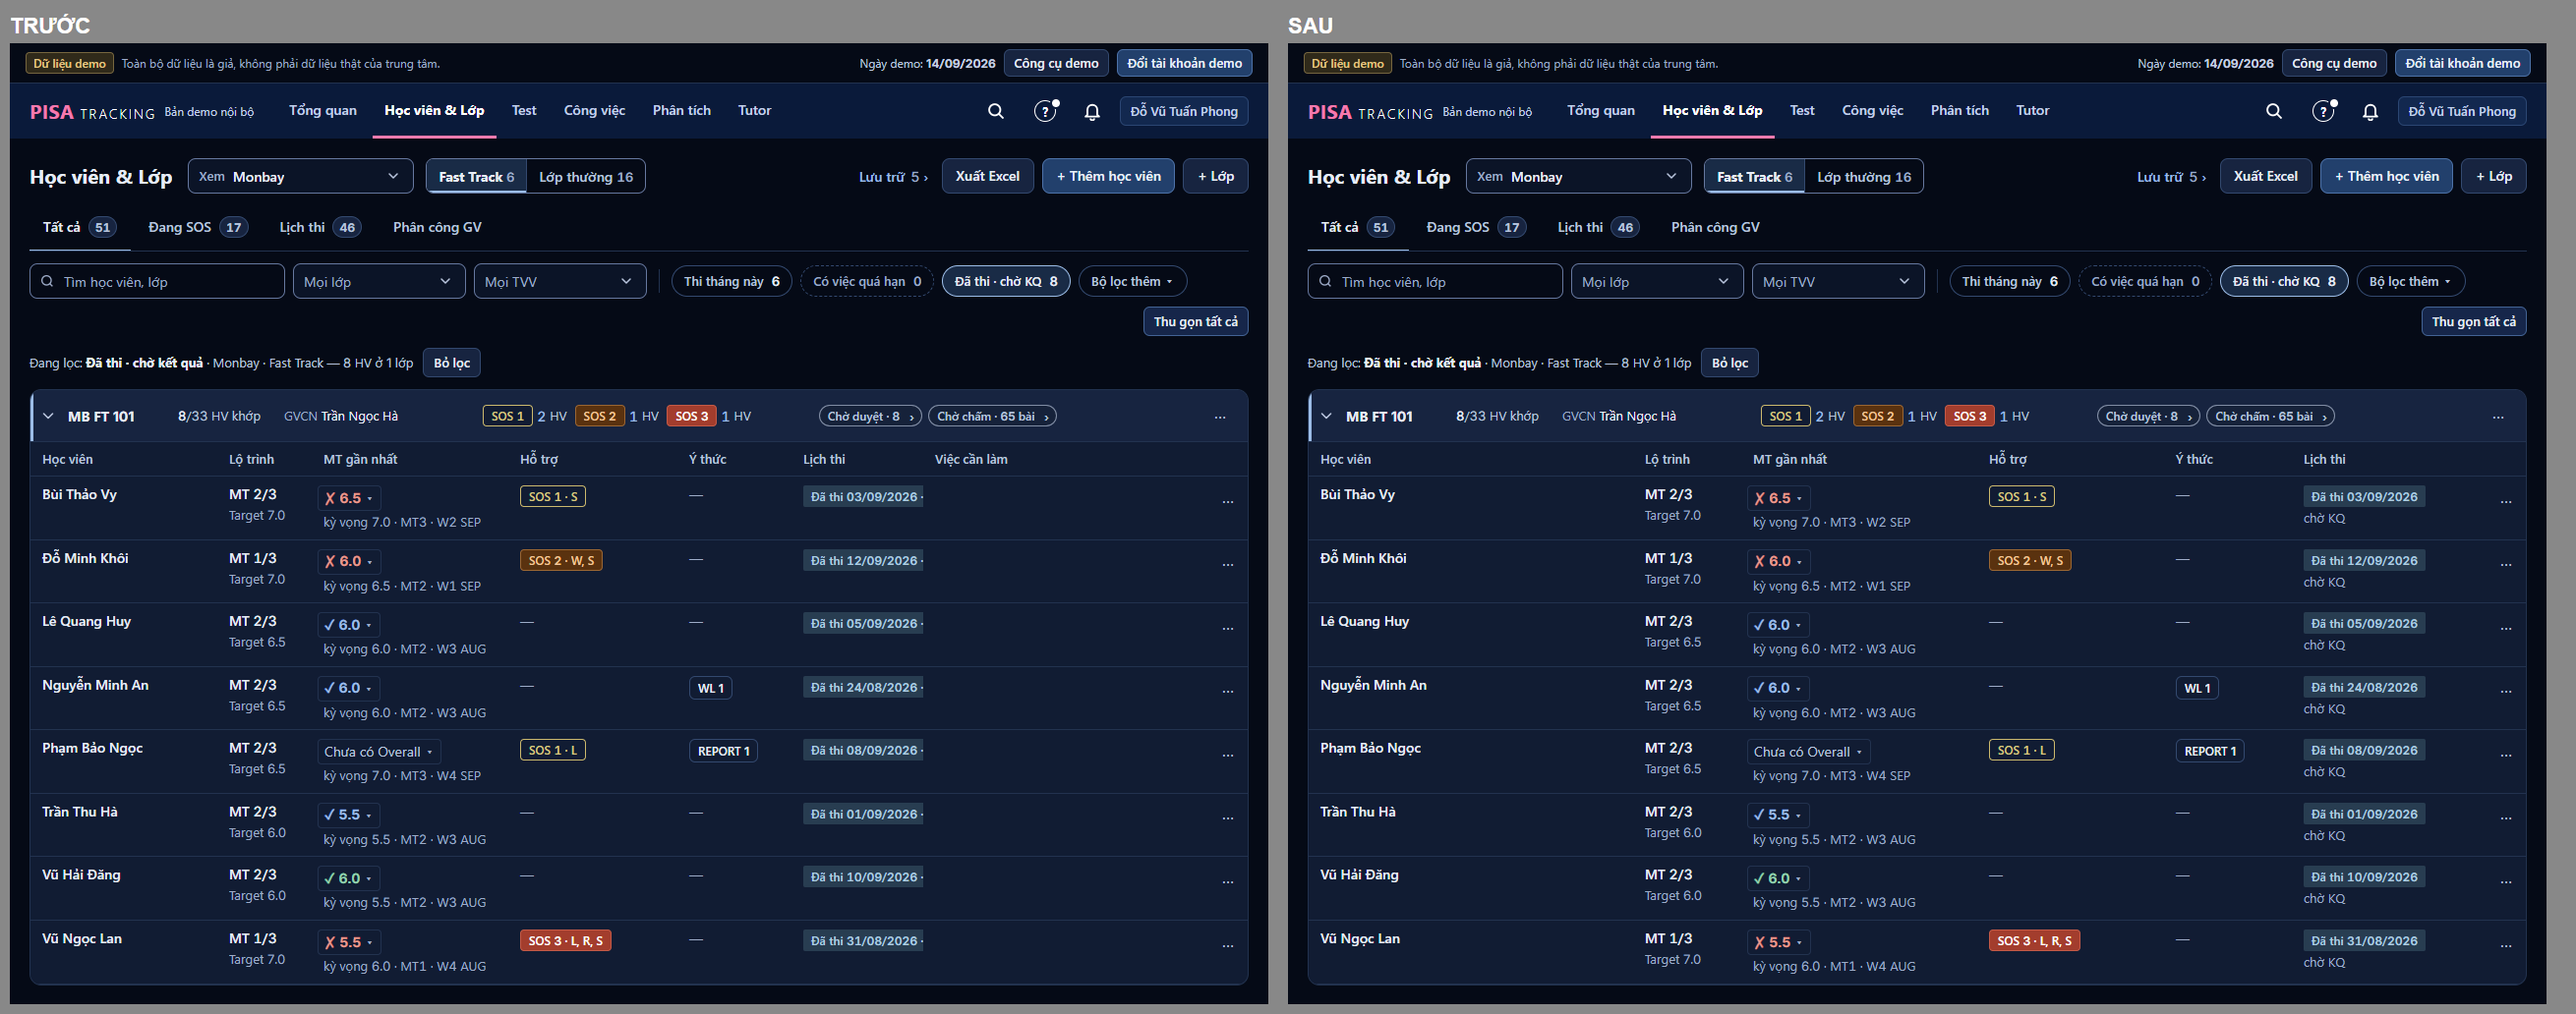
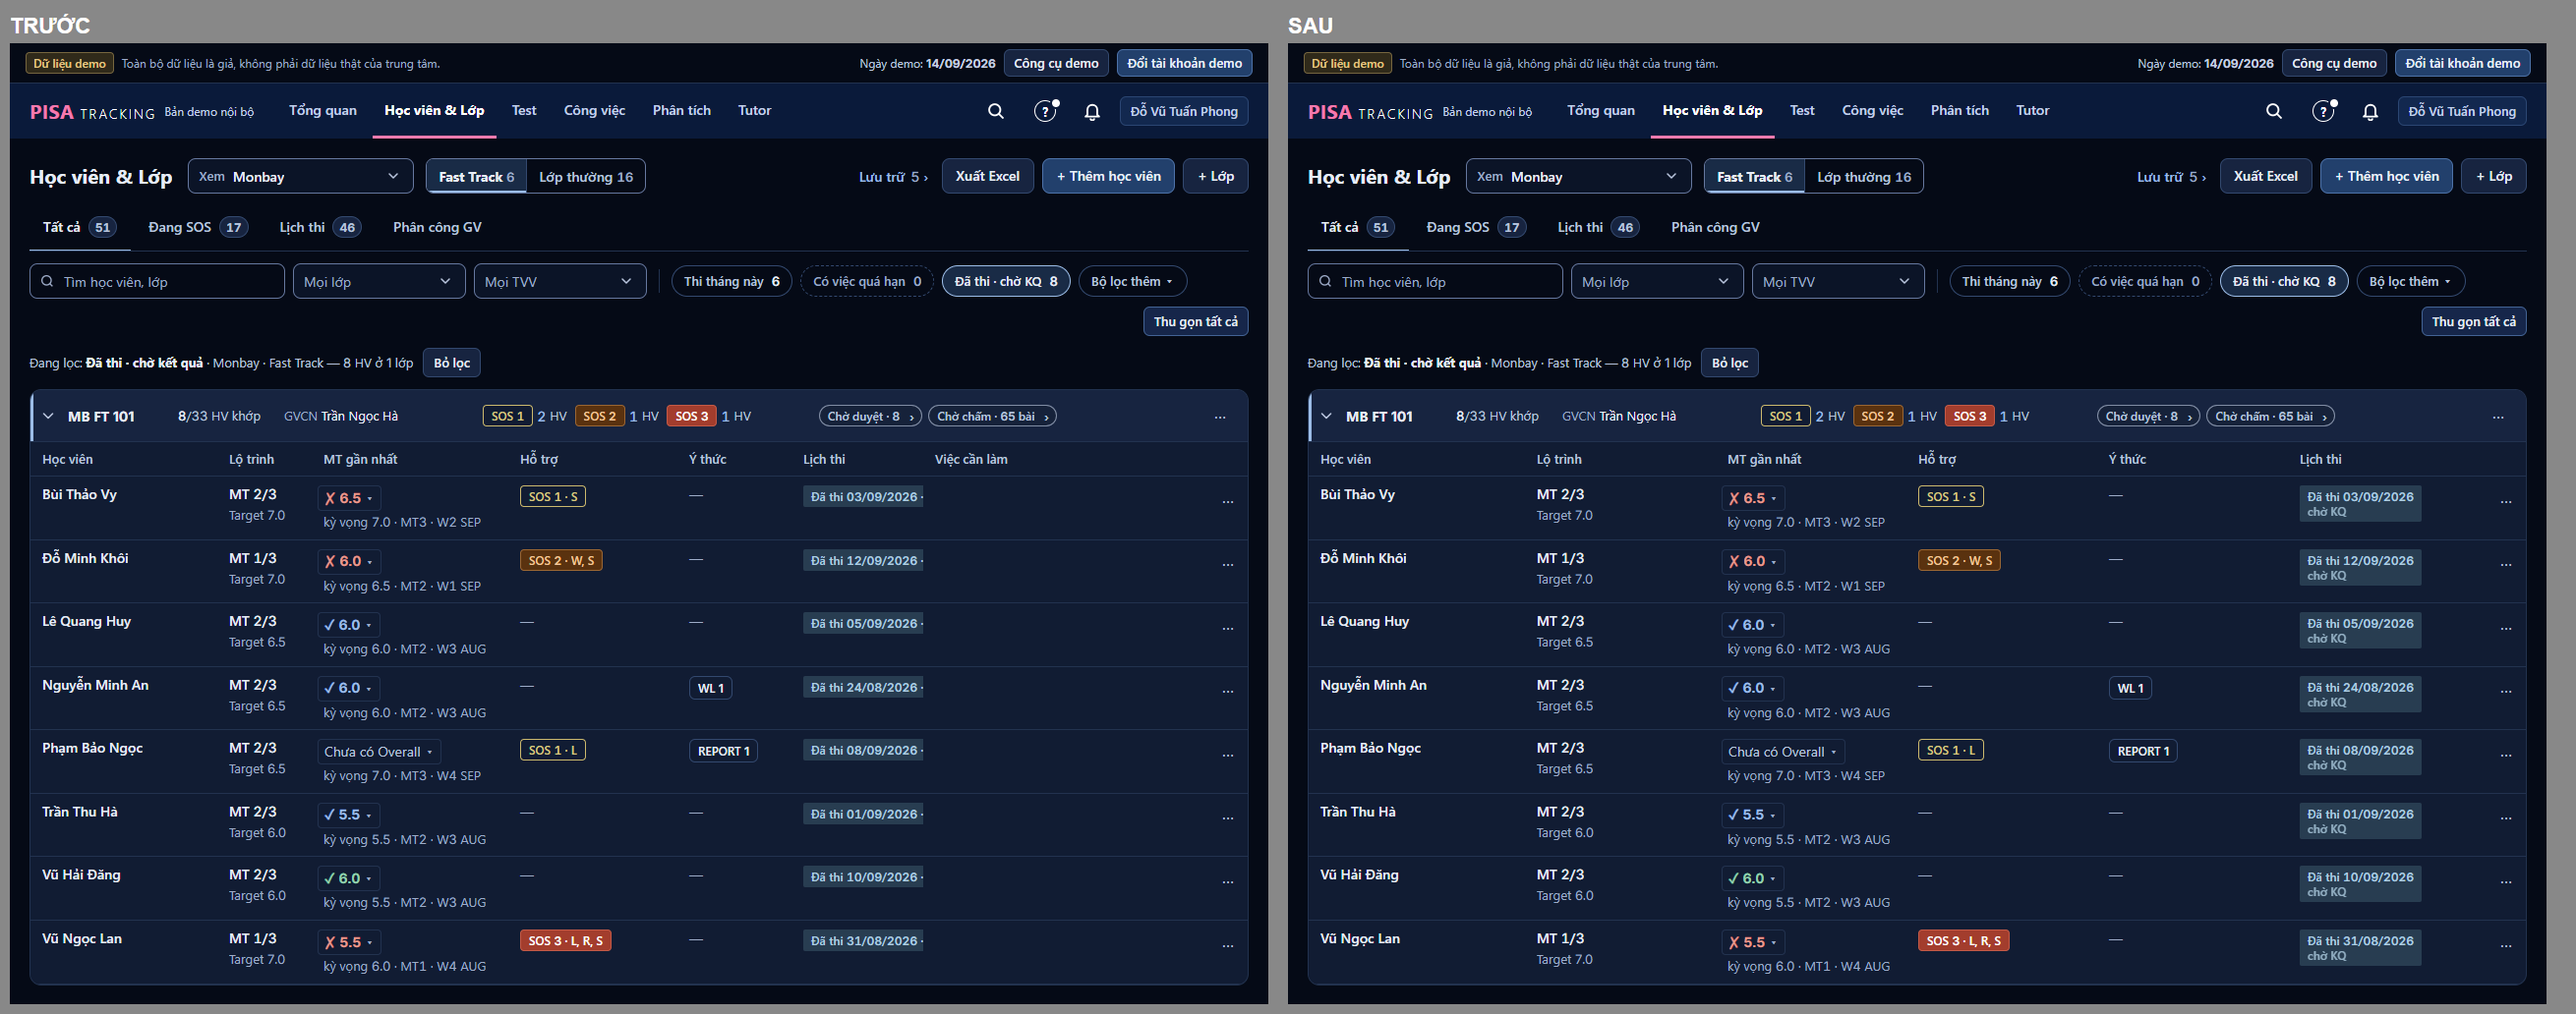
Cân cột HV "Đã thi": "chờ KQ" vào trong chip hai dòng, năm cột chia đều khi bỏ cột Việc

diff --git a/web/src/modules/students/DanhSachHvLop.tsx b/web/src/modules/students/DanhSachHvLop.tsx
@@ -292,7 +292,7 @@ const cotHv = (vai?: VaiBang): CotBang[] => (!vai || vai.coViec ? COT_HV
 function OLich({ h, ev, onMoEm, theDt = false }: { h: HvGon; ev?: EmVai; onMoEm?: (id: number) => void; /** Thẻ điện thoại: chip một dòng "Đã thi dd/mm/yyyy · chờ KQ" (bảng: "chờ KQ" xuống dòng phụ). */ theDt?: boolean }) {
   return (
     <span className="block">
-      {h.lich || !ev ? <><ChipLichThi l={h.lich} them={theDt && h.lich?.trangThai === 'da-thi' ? t('chờ KQ') : undefined} />{!theDt && h.lich?.trangThai === 'da-thi' && <span className="dong2">{t('chờ KQ')}</span>}</> : <span className="text-xs text-slate-300"><ExamPlanText plan={ev.duKienThi} /></span>}
+      {h.lich || !ev ? <><ChipLichThi l={h.lich} them={theDt && h.lich?.trangThai === 'da-thi' ? t('chờ KQ') : undefined} haiDong={!theDt && h.lich?.trangThai === 'da-thi' ? t('chờ KQ') : undefined} /></> : <span className="text-xs text-slate-300"><ExamPlanText plan={ev.duKienThi} /></span>}
       {ev?.sauThi && onMoEm && (
         <button type="button" className="mt-1 block cursor-pointer appearance-none whitespace-normal border-0 bg-transparent p-0 text-left hover:underline" onClick={() => onMoEm(h.id)}>
           <NhanSauThi s={ev.sauThi} gon />
@@ -339,9 +339,9 @@ function useDai() {
 export function BangHvGon({ nhom, lop, viec, nguCanh, onMoViec, onDoi, vai, tim, tvv, viecDaTai }: PropsBang) {
   const dai = useDai();
   /* Chủ SP 26/11 ("cột Việc cần làm trống mà rộng"): không em nào (trong mọi lớp đang lọc) có việc của người xem → bỏ cột; cột Học viên co giãn nhận phần dư
-     (luật cột NH9). CX giữ cột Phụ huynh. ponytail: chỉ xét lớp đang hiện — lọc đổi thì bảng tính lại. */
+     (luật cột NH9: Học viên vừa đủ tên, các cột còn lại chia đều). CX giữ cột Phụ huynh. ponytail: chỉ xét lớp đang hiện — lọc đổi thì bảng tính lại. */
   const khongViec = !!viecDaTai && (!vai || vai.coViec) && !nhom.some((g) => g.hv.some((h) => viec.get(h.id)?.length));
-  const cot = khongViec ? cotHv(vai).filter((c) => c.key !== 'viec').map((c) => (c.key === 'ten' ? { ...c, linhHoat: true } : c)) : cotHv(vai);
+  const cot = khongViec ? cotHv(vai).filter((c) => c.key !== 'viec') : cotHv(vai);
   const o = (h: HvGon, c: CotBang) => {
     const g = h.hang;
     const ev = vai?.em.get(h.id);

diff --git a/web/src/index.css b/web/src/index.css
@@ -667,14 +667,10 @@
     .bang-hv:not([data-khong-viec]) .bang > colgroup > col:nth-child(3) { width: 300px !important; } .bang-hv:not([data-khong-viec]) .bang > colgroup > col:nth-child(4) { width: 186px !important; }
     .bang-hv:not([data-khong-viec]) .bang > colgroup > col:nth-child(6) { width: 172px !important; }
   }
-  /* Chủ SP 26/11: không có cột Việc cần làm (không em nào có việc của người xem) — cột Học viên co giãn, các cột còn lại cố định cân nhau tới ⋯ sát mép phải (NH9). */
-  .bang-hv[data-khong-viec] .bang > colgroup > col:nth-child(2) { width: 110px !important; } .bang-hv[data-khong-viec] .bang > colgroup > col:nth-child(3) { width: 240px !important; }
-  .bang-hv[data-khong-viec] .bang > colgroup > col:nth-child(4) { width: 190px !important; } .bang-hv[data-khong-viec] .bang > colgroup > col:nth-child(5) { width: 130px !important; }
-  .bang-hv[data-khong-viec] .bang > colgroup > col:nth-child(6) { width: 190px !important; }
-  @media (min-width: 1440px) {
-    .bang-hv[data-khong-viec] .bang > colgroup > col:nth-child(3) { width: 290px !important; } .bang-hv[data-khong-viec] .bang > colgroup > col:nth-child(4) { width: 210px !important; }
-    .bang-hv[data-khong-viec] .bang > colgroup > col:nth-child(5) { width: 150px !important; } .bang-hv[data-khong-viec] .bang > colgroup > col:nth-child(6) { width: 200px !important; }
-  }
+  /* Chủ SP 26/11: không có cột Việc cần làm (không em nào có việc của người xem) — Học viên vừa đủ tên dài nhất, năm cột giữa CHIA ĐỀU phần còn lại (cột `auto` của
+     bảng cố định chia bằng nhau), ⋯ sát mép phải (NH9). */
+  .bang-hv[data-khong-viec] .bang > colgroup > col:nth-child(1) { width: 220px !important; }
+  .bang-hv[data-khong-viec] .bang > colgroup > col:nth-child(n+2):nth-child(-n+6) { width: auto !important; }
   /* GD-13a (mockup v21 ⑥ `.lt-nho`): ô Lịch thi của bảng Tất cả là CHỮ — "Chưa có lịch" chữ dim, "Dự kiến 01/2027" chữ thường 500; không viên viền
      (chỉ bảng này — NhanLich dùng chung; !important đè tiện ích Tailwind). Lịch đã chốt / đã thi giữ chip. */
   .bang-hv [class*='lich-vien'], .bang-hv [class*='thieu-vien'] { box-shadow: none !important; border: 0; background: none !important; padding-left: 0; padding-right: 0;

diff --git a/web/src/modules/students/GocLichThi.tsx b/web/src/modules/students/GocLichThi.tsx
@@ -32,12 +32,12 @@ export function khoangThang(thangUrl: string | null, homNay: string): [string, s
 }
 
 /** MỘT chip lịch thi thật cho Học viên & Lớp (cột Lịch thi + góc Lịch thi): Thi 17/09 · Đã thi · Chưa chốt · 09/2026 · Dự kiến 10/2026 · Chưa có lịch. */
-export function ChipLichThi({ l, them }: { l: LichThi | null | undefined; them?: string }) {
+export function ChipLichThi({ l, them, haiDong }: { l: LichThi | null | undefined; them?: string; /** Chữ dòng thứ hai trong chip (chỉ "Đã thi"). */ haiDong?: string }) {
   const { homNay } = useNgayNghiepVu();
   if (!l || l.trangThai === 'chua-co') return <NhanLich loai="chua">{t('Chưa có lịch')}</NhanLich>;
   const sau = them ? ` · ${them}` : '';
   if (l.trangThai === 'da-chot-ngay') return <NhanLich loai="co">{t('Thi {ngay}', { ngay: shortDate(l.ngay, homNay) })}{sau}</NhanLich>;
-  if (l.trangThai === 'da-thi') return <NhanLich loai="da-thi">{t('Đã thi {ngay}', { ngay: shortDate(l.ngay, homNay) })}{sau}</NhanLich>;
+  if (l.trangThai === 'da-thi') return <NhanLich loai="da-thi" haiDong={haiDong}>{t('Đã thi {ngay}', { ngay: shortDate(l.ngay, homNay) })}{sau}</NhanLich>;
   const moc = l.tuan ? tuanLich(l.tuan, homNay) : nhanThang(l.thang!);
   return l.trangThai === 'chua-chot-ngay'
     ? <NhanLich loai="du-kien">{t('Chưa chốt · {moc}', { moc })}</NhanLich>

diff --git a/web/src/ui/Nhan.tsx b/web/src/ui/Nhan.tsx
@@ -118,7 +118,8 @@ const LICH: Record<'co' | 'du-kien' | 'chua' | 'da-thi', string> = {
   'du-kien': 'bg-transparent text-[color:var(--lich-chu)] shadow-[inset_0_0_0_1px_var(--lich-vien)]',
   chua: 'bg-transparent text-faint shadow-[inset_0_0_0_1px_var(--thieu-vien)]',
 };
-export function NhanLich({ loai, title, children }: { loai: keyof typeof LICH; title?: string; children: ReactNode }) {
+export function NhanLich({ loai, title, children, haiDong }: { loai: keyof typeof LICH; title?: string; children: ReactNode; /** Dòng thứ hai TRONG chip (vd "chờ KQ") — cột hẹp, chip cao hai dòng thay vì cắt chữ. */ haiDong?: ReactNode }) {
+  if (haiDong) return <span title={title} className={`inline-flex flex-col items-start justify-center gap-[3px] whitespace-nowrap rounded-[2px] px-2 py-[5px] text-xs font-semibold leading-none tabular-nums ${LICH[loai]}`}><span>{children}</span><span className="font-medium opacity-80">{haiDong}</span></span>;
   return <span title={title} className={`inline-flex h-[22px] items-center whitespace-nowrap rounded-[2px] px-2 text-xs font-semibold leading-none tabular-nums ${LICH[loai]}`}>{children}</span>;
 }
 
